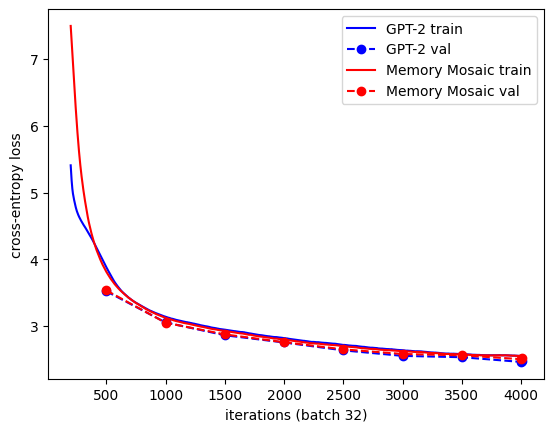
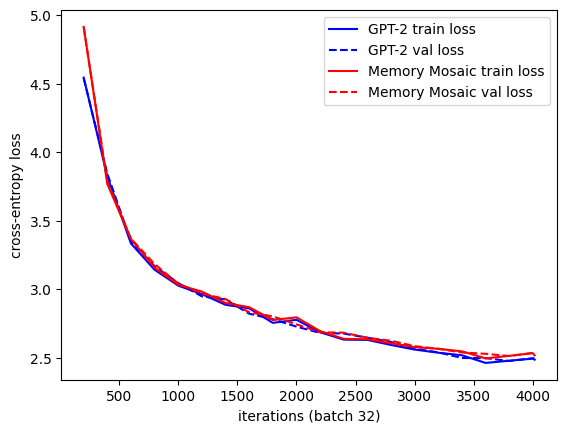
README: loss curves from the rerun with reference-style train loss

Changed region(s): [[0.0, 0.0, 1.0, 0.9931]]

diff --git a/README.md b/README.md
@@ -39,7 +39,7 @@ many steps that fit within 8 minutes. That covers the start of training, while t
 early trends, not Fig. 7's precise values. `PAPER_RUN = True` runs the full recipe (21B tokens per model), checkpointing at every
 evaluation; rerunning the notebook resumes from the last checkpoint.
 
-Quick run on a Colab v6e-1 TPU (4,004 steps, 66M tokens per model):
+Quick run on a Colab v6e-1 TPU (4,015 steps, 66M tokens per model):
 
 ![1-block loss curves](notebooks/fig7_1block.png)
 
